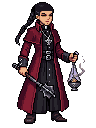
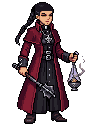
Elementalist woman's portrait, a slight bust for the inquisitor woman, prompts for new drafts
The author picked the Elementalist woman's draft A; it stands at the
portraits' size. The inquisitor woman's cross hangs 2 px higher, a lit
curve and a shadow under it show a slight bust, and the coat's edges
bow out at the bust and come in at the waist (the author: she looked
like a man). New prompts: the Priest's walk with his white and gold
shield and mace, the Elementalist woman's walk, Strzał z ukrycia and
Taniec ostrzy again, and the summoned elemental and toxic slime as
figures for fights.

Claude-Session: https://claude.ai/code/session_01EFZUMqpHps3KDRogHBzjf3

Changed region(s): [[0.4062, 0.25, 0.5938, 0.4375]]

diff --git a/src/client/art.js b/src/client/art.js
@@ -50,14 +50,14 @@ export const SPRITES = {
       'guardian-female', 'guardian-male', 'sniper-female', 'sniper-male', 'ice-lord-female', 'ice-lord-male', 'priest-female', 'priest-male', 'assassin-female', 'assassin-male',
       // The evolutions drawn anew (Retro Diffusion), as the author picked them.
       'barbarian-female', 'barbarian-male', 'gladiator-female', 'gladiator-male', 'storm-archer-female', 'storm-archer-male', 'hunter-female', 'hunter-male',
-      'elementalist-male', 'arcanist-female', 'arcanist-male', 'healer-female', 'healer-male', 'inquisitor-female', 'inquisitor-male',
+      'elementalist-female', 'elementalist-male', 'arcanist-female', 'arcanist-male', 'healer-female', 'healer-male', 'inquisitor-female', 'inquisitor-male',
       'poisoner-female', 'poisoner-male', 'night-dancer-female', 'night-dancer-male',
     ],
     faces: {
       'archer-female': 49, 'archer-male': 52, 'cleric-male': 49, 'shadow-male': 51, 'warrior-male': 50,
       'guardian-female': 50, 'sniper-female': 43, 'sniper-male': 47, 'ice-lord-female': 50, 'priest-female': 50, 'priest-male': 50, 'assassin-female': 54, 'assassin-male': 52,
       'barbarian-female': 55, 'barbarian-male': 57, 'gladiator-female': 51, 'gladiator-male': 51, 'storm-archer-female': 46, 'storm-archer-male': 52, 'hunter-female': 51, 'hunter-male': 56,
-      'arcanist-female': 47, 'arcanist-male': 52, 'healer-female': 46, 'healer-male': 45, 'inquisitor-female': 45, 'poisoner-female': 52, 'poisoner-male': 53,
+      'elementalist-female': 53, 'arcanist-female': 47, 'arcanist-male': 52, 'healer-female': 46, 'healer-male': 45, 'inquisitor-female': 45, 'poisoner-female': 52, 'poisoner-male': 53,
       'night-dancer-female': 50, 'night-dancer-male': 47,
     },
     toned: ['warrior-female', 'warrior-male', 'archer-female', 'archer-male', 'mage-female', 'mage-male', 'cleric-female', 'cleric-male', 'shadow-female', 'shadow-male'],
